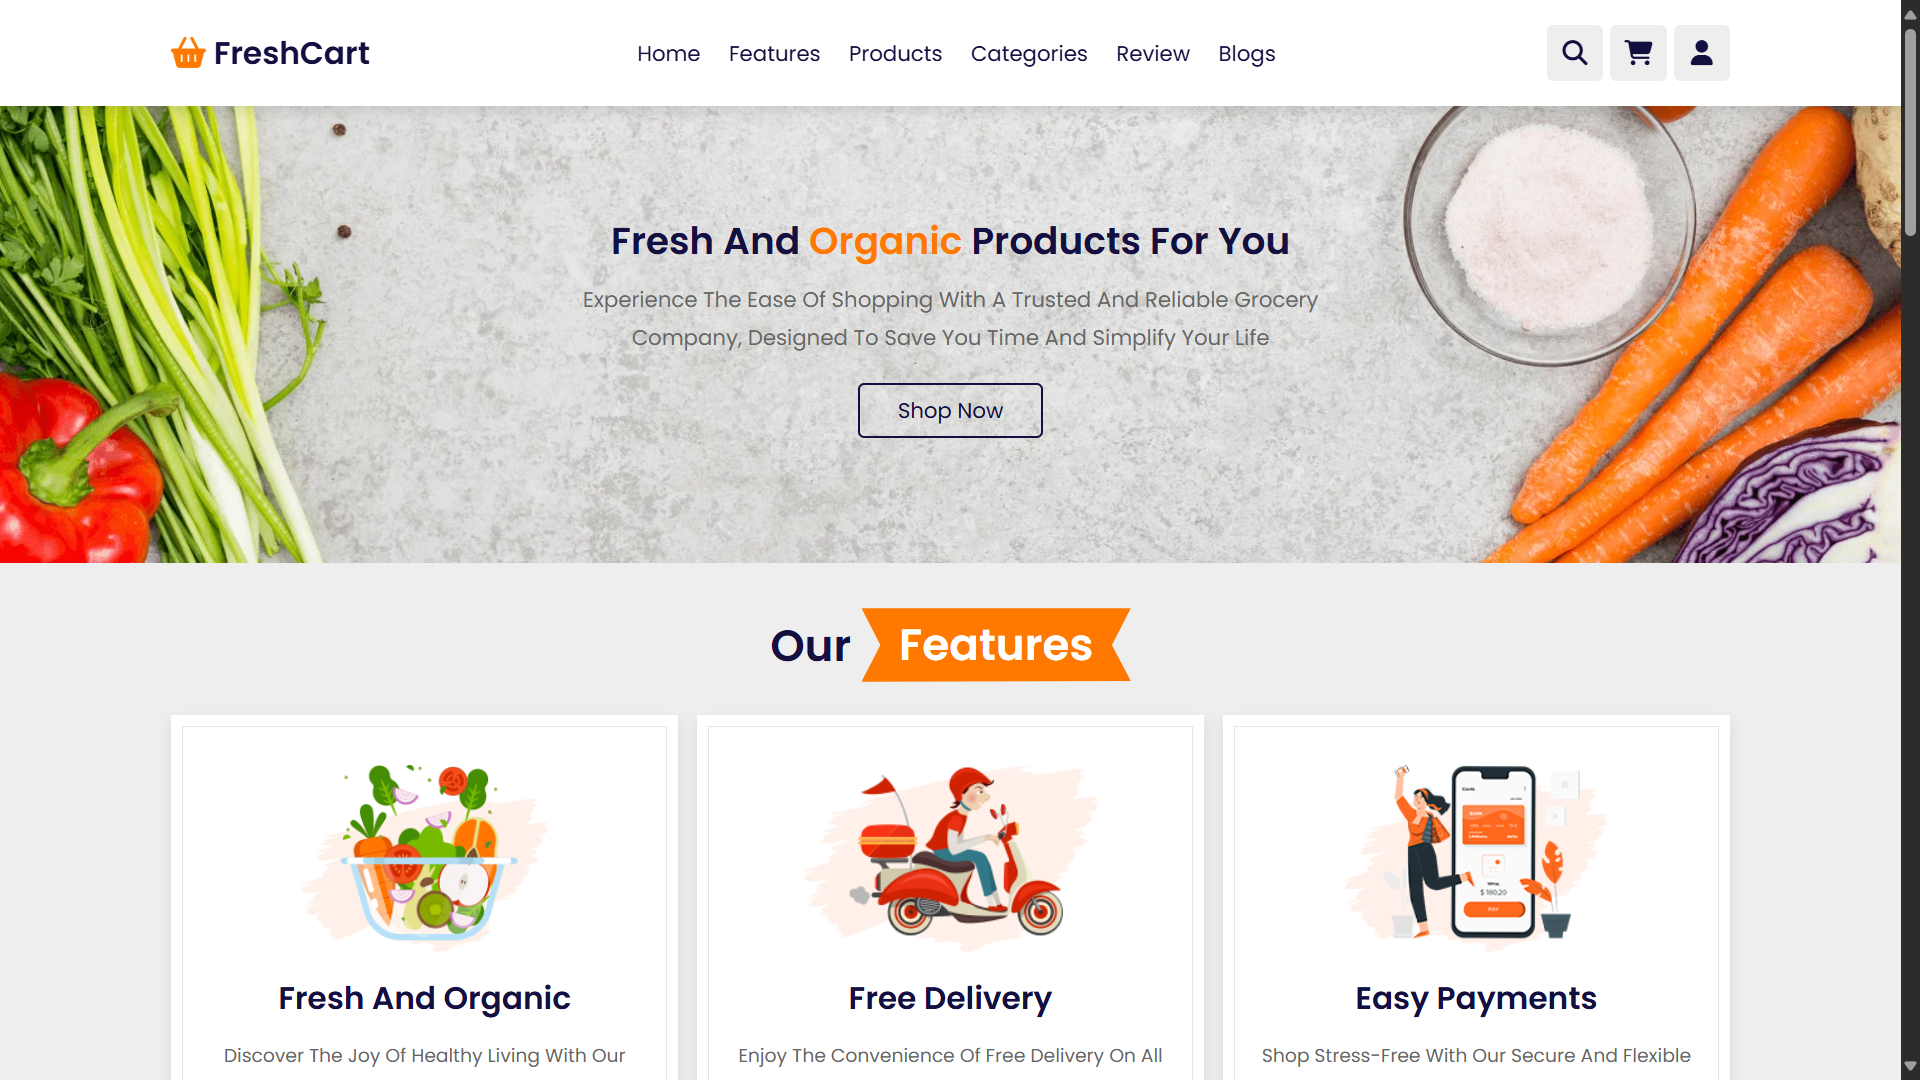
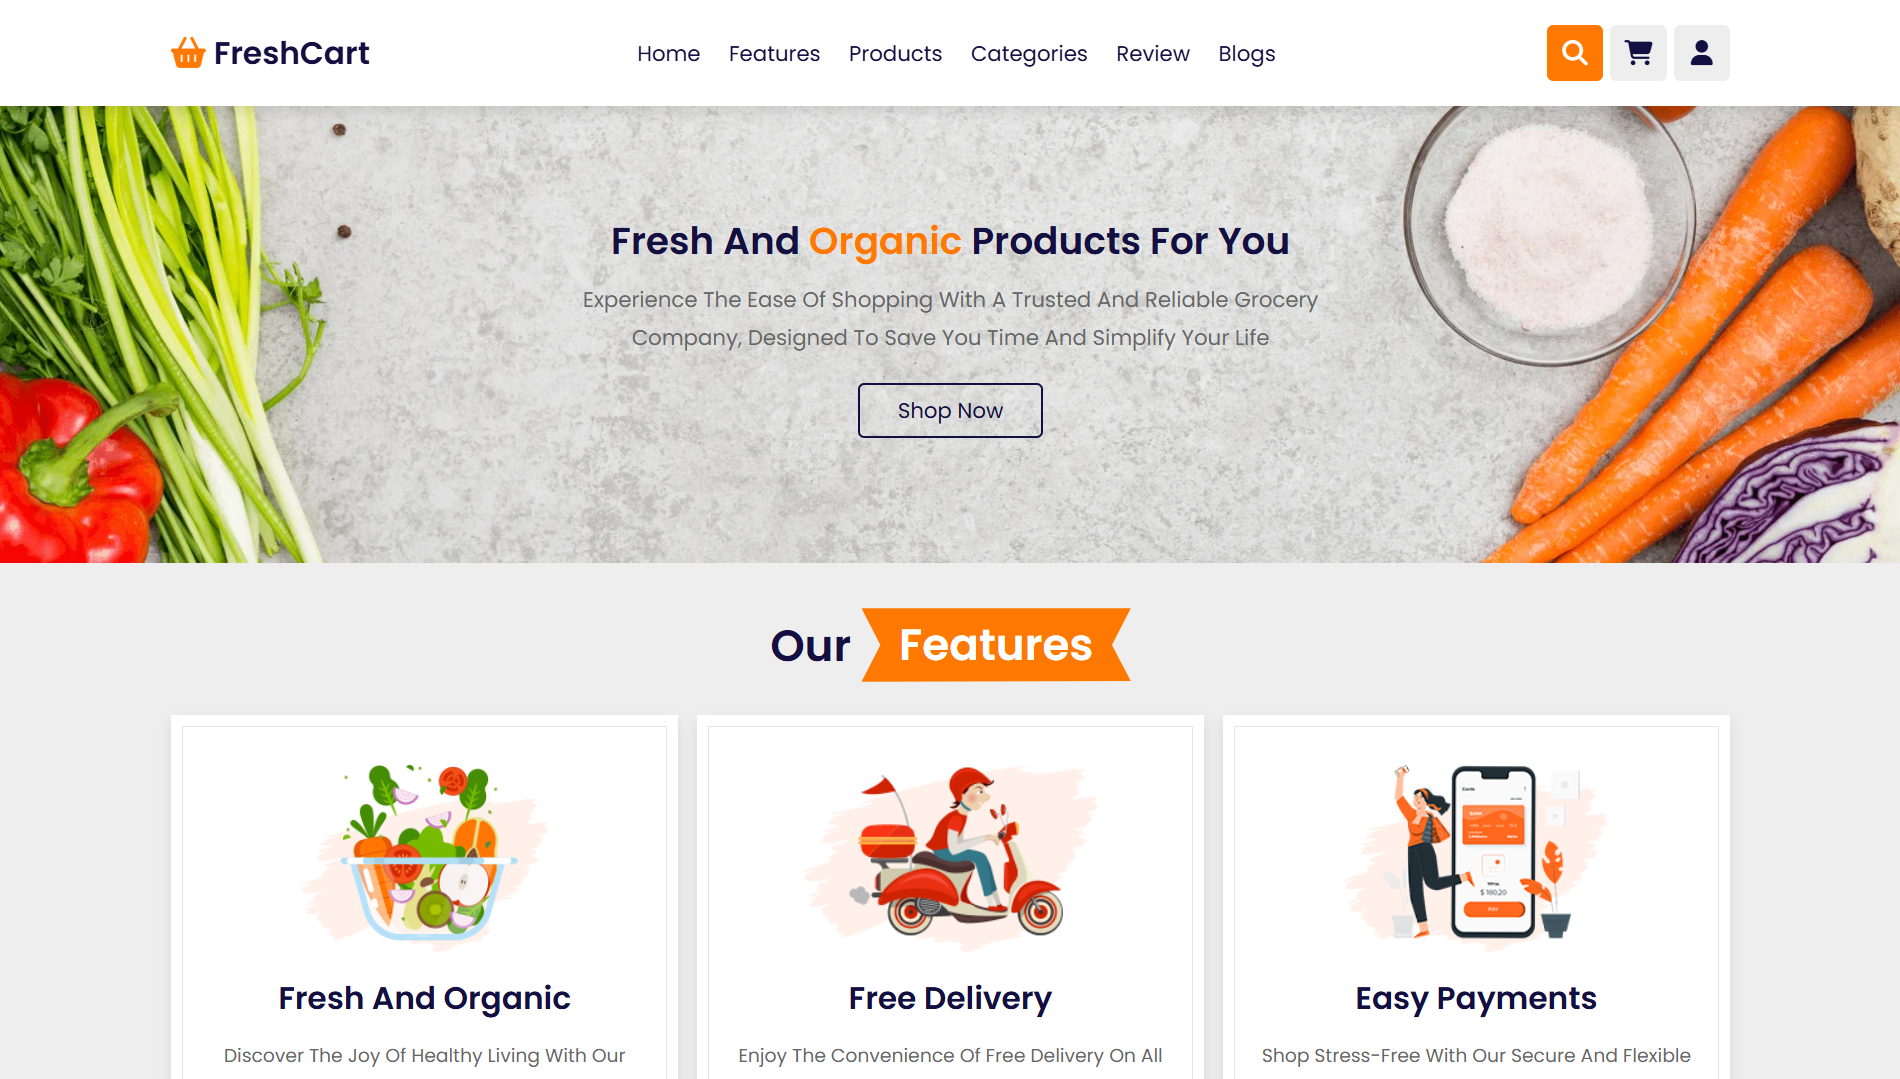
Add project details for portfolio

diff --git a/assets/assetsIndex/jsIndex/script.js b/assets/assetsIndex/jsIndex/script.js
@@ -58,9 +58,17 @@ document.addEventListener("DOMContentLoaded", function () {
 
   const projects = [
     {
+      img: "assets/assetsIndex/imagesIndex/qrfusion.png",
+      title: "QR Fusion - Free & Advanced QR Code Generator",
+      desc: "Generate, customize, and download professional QR codes instantly — free, private, and hassle-free.",
+      live: "https://qrfusion.netlify.app/",
+      download:
+        "https://github.com/codewithharshsingh/qrfusion/archive/refs/heads/main.zip",
+    },
+    {
       img: "assets/assetsIndex/imagesIndex/drive-link-generator.png",
       title: "Google Drive Direct Download Link Generator",
-      desc: "A simple web app that converts Google Drive links into instant direct download links.",
+      desc: "Quickly turn any Google Drive share link into an instant direct download link — fast, private, and hassle-free.",
       live: "https://drive-link-generator.netlify.app/",
       download:
         "https://github.com/codewithharshsingh/drive-link-generator/archive/refs/heads/main.zip",